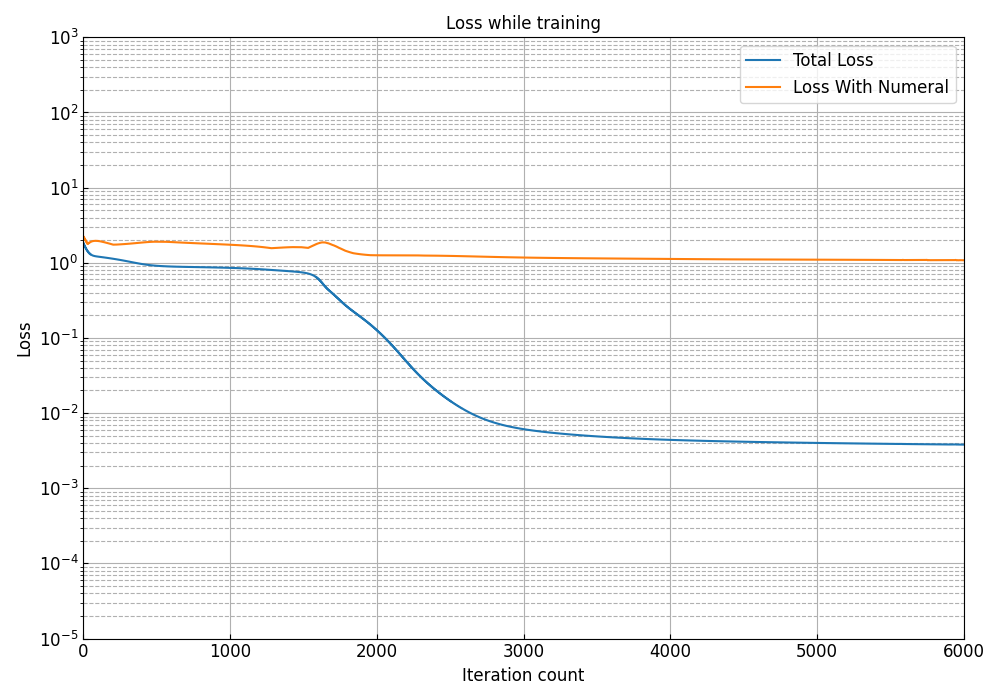
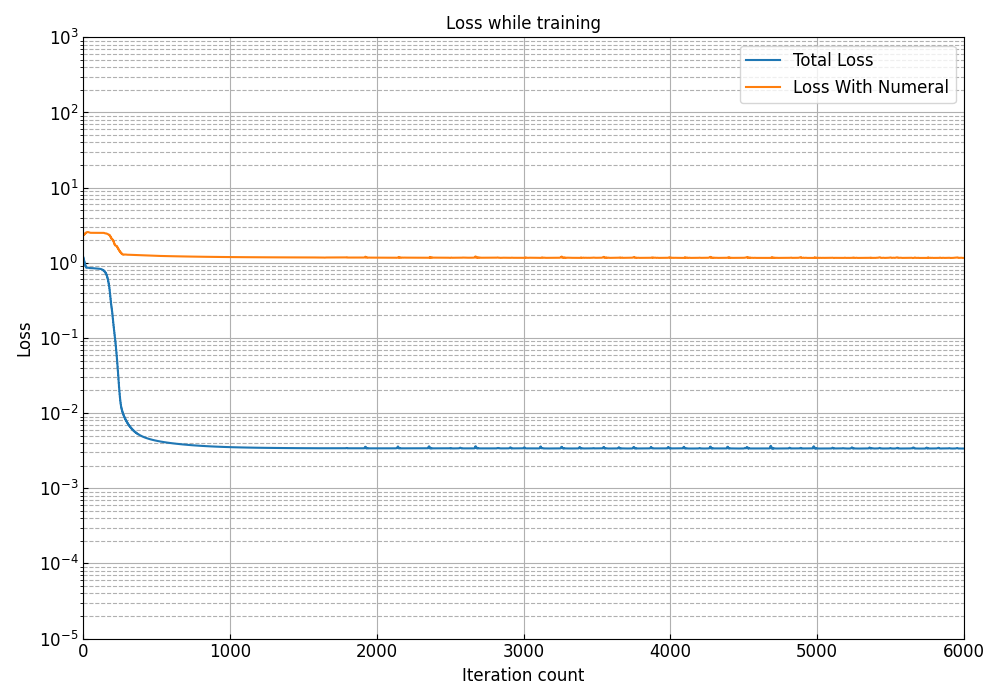
new_params

diff --git a/src/Neural_network(PINN).py b/src/Neural_network(PINN).py
@@ -111,7 +111,7 @@ PINN = Neural().to(device)
 
 metric_data = nn.MSELoss()
 # writer = SummaryWriter()
-optimizer = torch.optim.Adam(PINN.parameters(), lr=0.0001) #, lr=0.0001
+optimizer = torch.optim.Adam(PINN.parameters()) #, lr=0.0001
 criterion = nn.NLLLoss()
 
 
@@ -134,10 +134,10 @@ def pdeloss(t, epoh):
     return loss
 
 def pde(out, t):
-        delta = 8.1
-        alpha = 5
-        beta = 1.1
-        omega = torch.pi*1.5
+        delta = 0.021
+        alpha = 0.001
+        beta = 0.00001
+        omega = torch.pi*1.25
         dxdt = torch.autograd.grad(out, t, torch.ones_like(t), create_graph=True, retain_graph=True)[0]
         d2xdt2 = torch.autograd.grad(dxdt, t, torch.ones_like(t), create_graph=True, retain_graph=True)[0]
         

diff --git a/src/numerical_methods/Runge_kut_scipy.py b/src/numerical_methods/Runge_kut_scipy.py
@@ -4,11 +4,11 @@ from scipy.integrate import odeint, solve_ivp
 import matplotlib.pyplot as plt
 import numpy as np
 
-gamma = 0.0
+gamma = 1.3
 delta = 0.021
-alpha = 0.1
-beta = 0.01
-l = 1
+alpha = 0.0001
+beta = 0.00001
+l = 1.25
 omega = np.pi*l
 
 dots = 500
